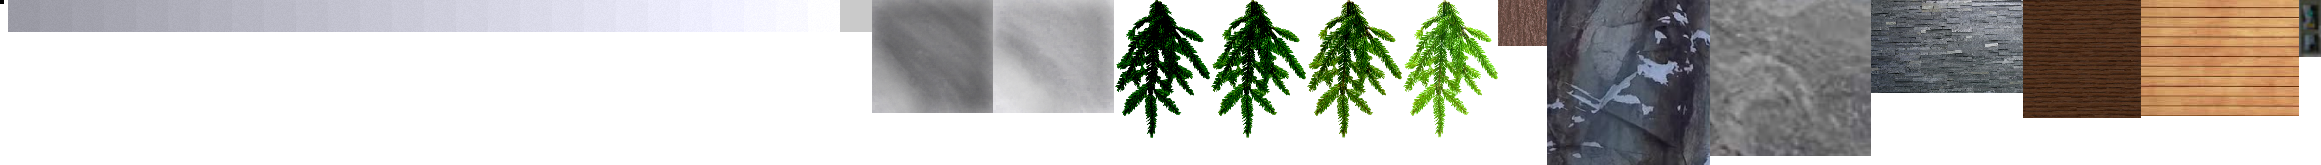
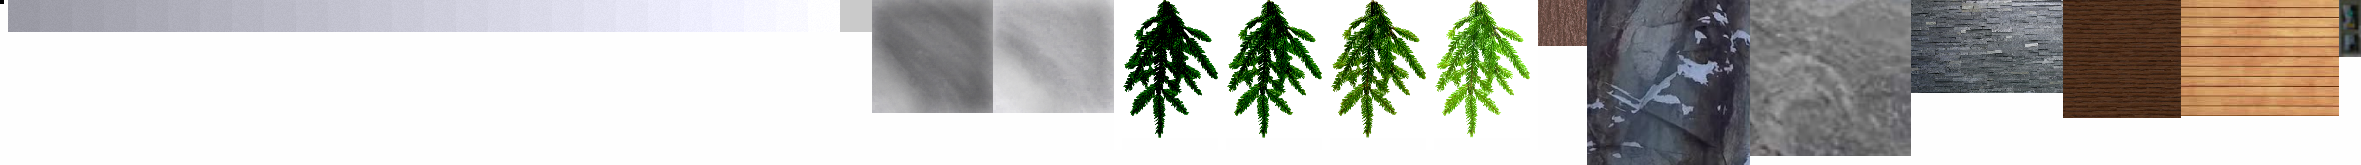
fixed the tree line bug for good

Changed region(s): [[0.3412, 0.0, 0.8996, 1.0]]

diff --git a/mash_textures.py b/mash_textures.py
@@ -45,7 +45,15 @@ names = [
 "IceTexture.png",
 "BumpTextureD.png",
 "BumpTextureL.png",
-"PineTexture1.png","PineTexture2.png","PineTexture3.png","PineTexture4.png",
+None,
+"PineTexture1.png",
+None,
+"PineTexture2.png",
+None,
+"PineTexture3.png",
+None,
+"PineTexture4.png",
+None,
 "Bark.png",
 "CliffTexture.png",
 "RockTexture.png",
@@ -60,24 +68,33 @@ for name in names:
     n.append(name)
 names = n
 
-images = [Image.open("3d_textures/"+x) for x in names]
+blank_space = Image.new('RGBA', (8, 150))
+blank_space.paste( (1,1,1,0), [0,0,blank_space.size[0],blank_space.size[1]])
+
+
+images = [blank_space if x==None else Image.open("3d_textures/"+x) for x in names]
 
 
 
 
 widths, heights = zip(*(i.size for i in images))
 
+
 total_width = sum(widths)
 max_height = max(heights)
 
 new_im = Image.new('RGBA', (total_width, max_height))
+new_im.paste( (1,1,1,1), [0,0,new_im.size[0],new_im.size[1]])
+
+
 
 key = str(total_width)+"_"+str(max_height)
 x_offset = 0
 for i in range(len(images)):
     im = images[i]
     new_im.paste(im, (x_offset,0))
-    key+="\n"+minus_extension(names[i])+"_"+str(x_offset)+"_0_"+str(widths[i])+"_"+str(heights[i])
+    if names[i] != None:
+        key+="\n"+minus_extension(names[i])+"_"+str(x_offset)+"_0_"+str(widths[i])+"_"+str(heights[i])
     x_offset += im.size[0]
     
 

diff --git a/world.py b/world.py
@@ -1633,8 +1633,8 @@ class World(LooiObject):
                 
         
         
-        glAlphaFunc(GL_GREATER, 0.4);
-        glEnable(GL_ALPHA_TEST);
+        #glAlphaFunc(GL_GREATER, 0.4);
+        #glEnable(GL_ALPHA_TEST);
        
         
         #now here's where we do all the drawing (and stacking)
